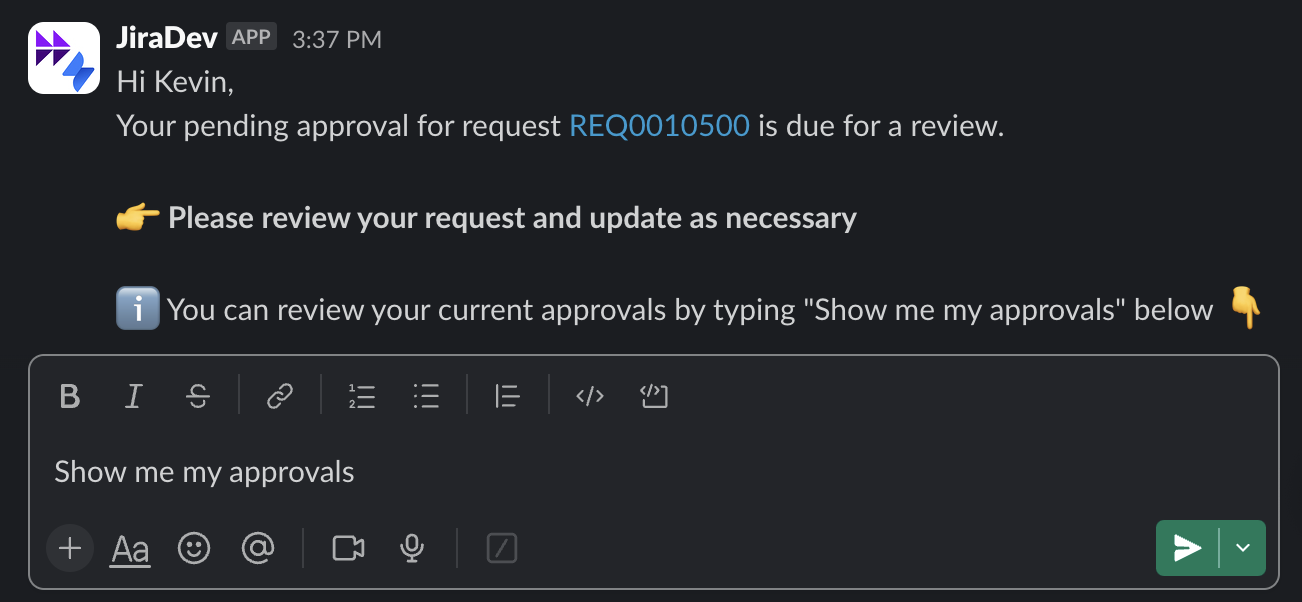
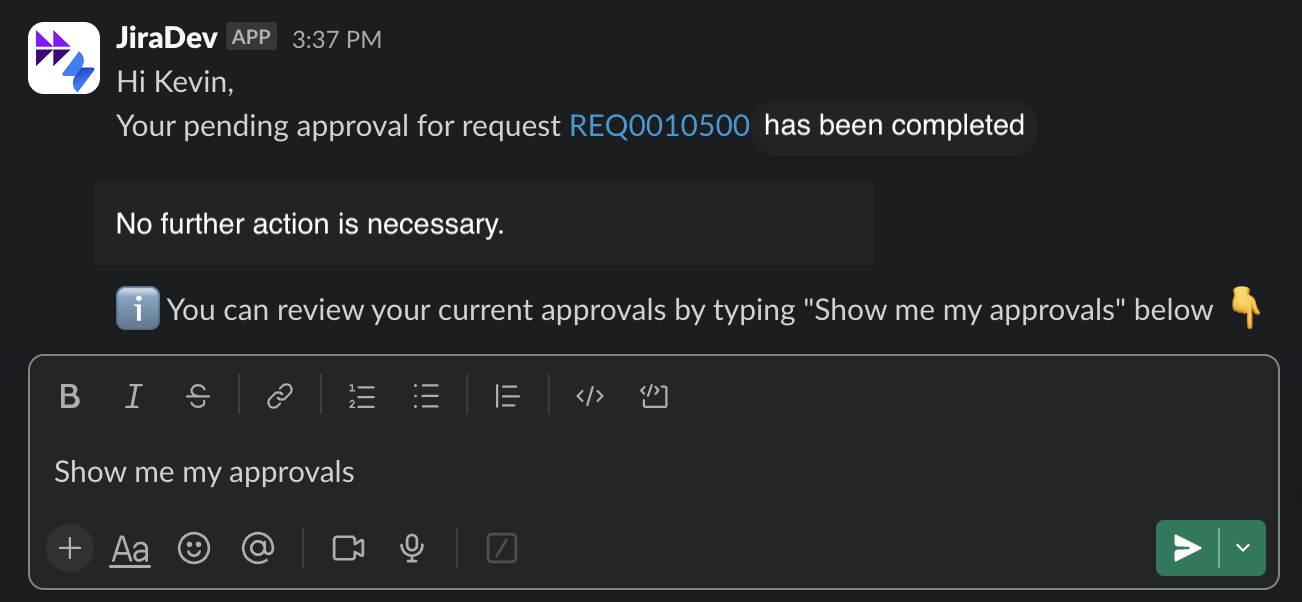
Fix image details and purple chat

Changed region(s): [[0.0922, 0.3289, 0.6759, 0.3887], [0.5837, 0.1794, 0.7988, 0.2392]]

diff --git a/use-case-guides/snow-finished-approvals/README.md b/use-case-guides/snow-finished-approvals/README.md
@@ -3,7 +3,7 @@ design_pattern_id: 10
 name: ServiceNow Approval Dismisals
 description: Optimizing Workflow Efficiency with Automated Non-Pending Approval Removals in ServiceNow
 systems: [servicenow]
-purple_chat_link: https://developer.moveworks.com/creator-studio/developer-tools/purple-chat-builder/?workspace=%7B%22title%22%3A%22My+Workspace%22%2C%22mocks%22%3A%5B%7B%22id%22%3A1636%2C%22title%22%3A%22Event+triggered+approval+reminders%22%2C%22transcript%22%3A%7B%22settings%22%3A%7B%22colorStyle%22%3A%22LIGHT%22%2C%22startTime%22%3A%2211%3A43+AM%22%2C%22defaultPerson%22%3A%22GWEN%22%2C%22editable%22%3Atrue%2C%22botName%22%3A%22%22%2C%22botImageUrl%22%3A%22%22%7D%2C%22messages%22%3A%5B%7B%22from%22%3A%22ANNOTATION%22%2C%22text%22%3A%22%3Cp%3EServiceNow+Flow+Designer%3A+Scheduled+job+that+runs+once+a+day%2Fweek%2Fmonth%3C%2Fp%3E%22%7D%2C%7B%22from%22%3A%22BOT%22%2C%22text%22%3A%22%3Cp%3EYour+pending+approval+request+for+request+%3Ca+href%3D%5C%22https%3A%2F%2Fmoveworks.ai%5C%22%3ERITM0123456+is+due+for+a+review.%3C%2Fa%3E%3Cbr%3E%3Cbr%3E%F0%9F%91%89+%3Cb%3EPlease+review+your+request+and+update+as+necessary%3C%2Fb%3E%3Cbr%3E%3Cbr%3E%F0%9F%91%89+You+can+review+your+current+approvals+by+typing+%3Cb%3E%5C%22Show+me+my+approvals%5C%22%3C%2Fb%3E+below%3C%2Fp%3E%22%7D%5D%7D%7D%5D%2C%22botSettings%22%3A%7B%22name%22%3A%22%22%2C%22imageUrl%22%3A%22%22%7D%7D
+purple_chat_link: https://developer.moveworks.com/creator-studio/developer-tools/purple-chat-builder/?workspace=%7B%22title%22%3A%22My+Workspace%22%2C%22mocks%22%3A%5B%7B%22id%22%3A1636%2C%22title%22%3A%22Event+triggered+approval+reminders%22%2C%22transcript%22%3A%7B%22settings%22%3A%7B%22colorStyle%22%3A%22LIGHT%22%2C%22startTime%22%3A%2211%3A43+AM%22%2C%22defaultPerson%22%3A%22GWEN%22%2C%22editable%22%3Atrue%2C%22botName%22%3A%22Helper-bot%22%2C%22botImageUrl%22%3A%22%22%7D%2C%22messages%22%3A%5B%7B%22from%22%3A%22ANNOTATION%22%2C%22text%22%3A%22%3Cp%3EServiceNow+Flow+Designer%3A+Job+that+runs+when+an+approval+is+resolved%3C%2Fp%3E%22%7D%2C%7B%22from%22%3A%22BOT%22%2C%22text%22%3A%22%3Cp%3EYour+pending+approval+request+for+request+%3Ca+href%3D%5C%22https%3A%2F%2Fmoveworks.ai%5C%22%3ERITM0123456%3C%2Fa%3E+has+been+completed%3Cbr%3E%3Cbr%3ENo+further+action+is+necessary.%3Cbr%3E%3Cbr%3E%F0%9F%91%89+You+can+review+your+current+approvals+by+typing+%3Cb%3E%5C%22Show+me+my+approvals%5C%22%3C%2Fb%3E+below%3C%2Fp%3E%22%7D%5D%7D%7D%5D%2C%22botSettings%22%3A%7B%22name%22%3A%22Helper-bot%22%2C%22imageUrl%22%3A%22%22%7D%7D
 time_in_minutes: 45
 difficulty_level: Beginner
 ---
@@ -31,7 +31,7 @@ By following these steps, you'll be able to streamline your approval system.
 
 ## Conversation Design
 
-[This purple chat](https://developer.moveworks.com/creator-studio/developer-tools/purple-chat-builder/?workspace=%7B%22title%22%3A%22My+Workspace%22%2C%22mocks%22%3A%5B%7B%22id%22%3A1636%2C%22title%22%3A%22Event+triggered+approval+reminders%22%2C%22transcript%22%3A%7B%22settings%22%3A%7B%22colorStyle%22%3A%22LIGHT%22%2C%22startTime%22%3A%2211%3A43+AM%22%2C%22defaultPerson%22%3A%22GWEN%22%2C%22editable%22%3Atrue%2C%22botName%22%3A%22%22%2C%22botImageUrl%22%3A%22%22%7D%2C%22messages%22%3A%5B%7B%22from%22%3A%22ANNOTATION%22%2C%22text%22%3A%22%3Cp%3EServiceNow+Flow+Designer%3A+Scheduled+job+that+runs+once+a+day%2Fweek%2Fmonth%3C%2Fp%3E%22%7D%2C%7B%22from%22%3A%22BOT%22%2C%22text%22%3A%22%3Cp%3EYour+pending+approval+request+for+request+%3Ca+href%3D%5C%22https%3A%2F%2Fmoveworks.ai%5C%22%3ERITM0123456+is+due+for+a+review.%3C%2Fa%3E%3Cbr%3E%3Cbr%3E%F0%9F%91%89+%3Cb%3EPlease+review+your+request+and+update+as+necessary%3C%2Fb%3E%3Cbr%3E%3Cbr%3E%F0%9F%91%89+You+can+review+your+current+approvals+by+typing+%3Cb%3E%5C%22Show+me+my+approvals%5C%22%3C%2Fb%3E+below%3C%2Fp%3E%22%7D%5D%7D%7D%5D%2C%22botSettings%22%3A%7B%22name%22%3A%22%22%2C%22imageUrl%22%3A%22%22%7D%7D) shows the experience we are going to build.
+[This purple chat](https://developer.moveworks.com/creator-studio/developer-tools/purple-chat-builder/?workspace=%7B%22title%22%3A%22My+Workspace%22%2C%22mocks%22%3A%5B%7B%22id%22%3A1636%2C%22title%22%3A%22Event+triggered+approval+reminders%22%2C%22transcript%22%3A%7B%22settings%22%3A%7B%22colorStyle%22%3A%22LIGHT%22%2C%22startTime%22%3A%2211%3A43+AM%22%2C%22defaultPerson%22%3A%22GWEN%22%2C%22editable%22%3Atrue%2C%22botName%22%3A%22Helper-bot%22%2C%22botImageUrl%22%3A%22%22%7D%2C%22messages%22%3A%5B%7B%22from%22%3A%22ANNOTATION%22%2C%22text%22%3A%22%3Cp%3EServiceNow+Flow+Designer%3A+Job+that+runs+when+an+approval+is+resolved%3C%2Fp%3E%22%7D%2C%7B%22from%22%3A%22BOT%22%2C%22text%22%3A%22%3Cp%3EYour+pending+approval+request+for+request+%3Ca+href%3D%5C%22https%3A%2F%2Fmoveworks.ai%5C%22%3ERITM0123456%3C%2Fa%3E+has+been+completed%3Cbr%3E%3Cbr%3ENo+further+action+is+necessary.%3Cbr%3E%3Cbr%3E%F0%9F%91%89+You+can+review+your+current+approvals+by+typing+%3Cb%3E%5C%22Show+me+my+approvals%5C%22%3C%2Fb%3E+below%3C%2Fp%3E%22%7D%5D%7D%7D%5D%2C%22botSettings%22%3A%7B%22name%22%3A%22Helper-bot%22%2C%22imageUrl%22%3A%22%22%7D%7D) shows the experience we are going to build.
 
 Based on the needs of this use case, we will be building an **Information Updates** design pattern.
 
@@ -79,18 +79,13 @@ This process uses triggers, conditions, and timed actions with the Moveworks API
         ![Untitled](Use%20Case%20Tutorial%20ServiceNow%20Approval%20Reminders%20a8e075be60c94c77b1e4da9ac249d5ce/Untitled%202.png)
 
 2. For the **Trigger:**
-    1. Set the Trigger field to **Resolved**
+    1. Set the Trigger field to **Updated**
     2. Set the Table field to the **Approval [sysapproval_approver]** table
-    3. Set the condition to **State is Approved**
+    3. Set four OR conditions for **State is Approved, State is Rejected, State is Cancelled, State is No Longer Required**
 
         ![Untitled](Use%20Case%20Tutorial%20ServiceNow%20Approval%20Reminders%20a8e075be60c94c77b1e4da9ac249d5ce/Untitled%203.png)
 
-3. To set up the **Actions**
-4. Add a **Do the following** flow in the **Flow Logic** tab
-
-    ![Untitled](Use%20Case%20Tutorial%20ServiceNow%20Approval%20Reminders%20a8e075be60c94c77b1e4da9ac249d5ce/Untitled%204.png)
-
-8. Add a **Moveworks Send Message** Action to the If logic if the condition is met
+3. To set up the **Actions** by adding a **Moveworks Send Message** Action
     1. Set up the recipient
         1. The recipient will be the approval record approver’s email
         2. Setup the message you would like to send the approver
@@ -101,7 +96,7 @@ This process uses triggers, conditions, and timed actions with the Moveworks API
 
             ![Untitled](Use%20Case%20Tutorial%20ServiceNow%20Approval%20Reminders%20a8e075be60c94c77b1e4da9ac249d5ce/Untitled%208.png)
 
-9. Your Flow should look like this:
+5. Your Flow should look like this:
 
     ![Untitled](Use%20Case%20Tutorial%20ServiceNow%20Approval%20Reminders%20a8e075be60c94c77b1e4da9ac249d5ce/Untitled%209.png)
 
